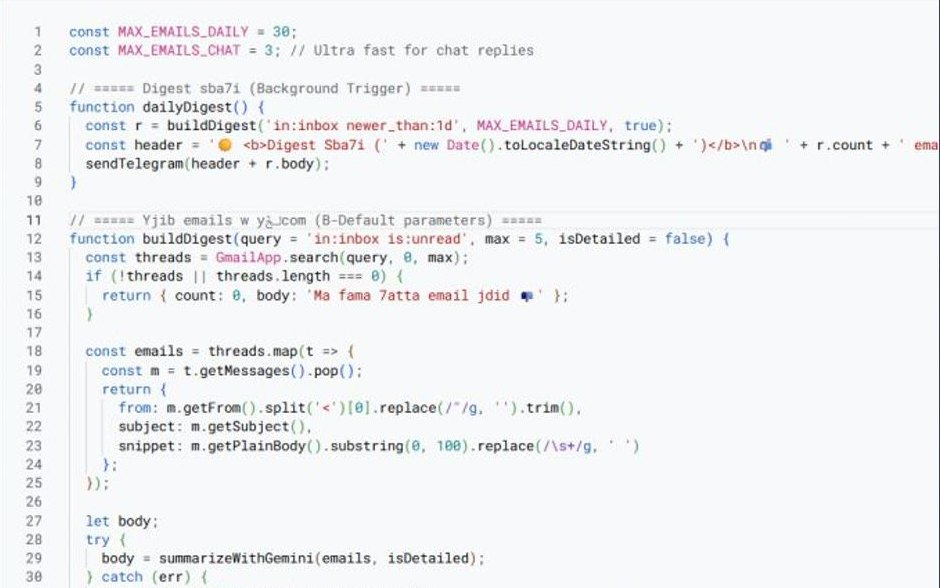
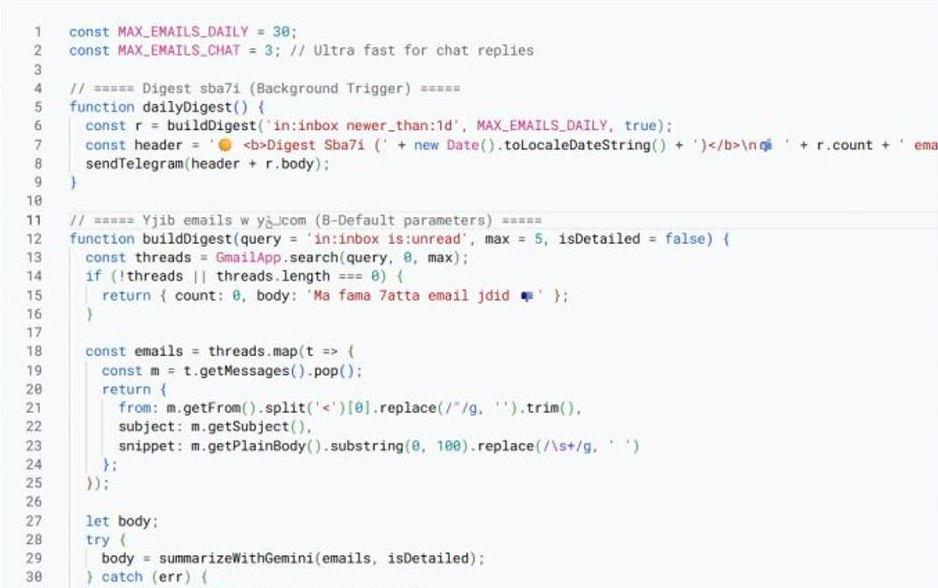
Work section: one block per project, pictures never covered

diff --git a/index.html b/index.html
@@ -149,7 +149,7 @@
         <a class="btn" href="#quote" data-quote="ai"><span lang="en">Get my price</span><span lang="fr">Voir mon prix</span> <span class="arr" aria-hidden="true">→</span></a>
       </div>
     </div>
-    <figure class="pic"><img src="img/gmail-ai-assistant.jpg" alt="Gmail AI Assistant, Apps Script code" data-fr-alt="Gmail AI Assistant, code Apps Script" width="940" height="588" loading="lazy" style="object-position:0 0"><figcaption><span lang="en">My Gmail assistant: the Apps Script code</span><span lang="fr">Mon assistant Gmail&nbsp;: le code Apps Script</span></figcaption></figure>
+    <figure class="pic"><img src="img/gmail-ai-assistant.jpg" alt="Gmail AI Assistant, Apps Script code" data-fr-alt="Gmail AI Assistant, code Apps Script" width="938" height="588" loading="lazy"><figcaption><span lang="en">My Gmail assistant: the Apps Script code</span><span lang="fr">Mon assistant Gmail&nbsp;: le code Apps Script</span></figcaption></figure>
   </article>
 
   <article class="sheet s3">
@@ -174,22 +174,22 @@
 <section class="work" id="work" aria-labelledby="work-h">
   <h2 class="sr" id="work-h"><span lang="en">Projects</span><span lang="fr">Projets</span></h2>
   <div class="plate">
-    <picture><source media="(max-width:820px), (max-width:1100px) and (orientation:portrait)" srcset="img/hero-app-m.jpg" width="434" height="500"><img class="full" src="img/hero-app.jpg" alt="Nizam app screens: timetable and training" data-fr-alt="Écrans de l’app Nizam : emploi du temps et entraînement" width="960" height="600" loading="lazy" style="object-position:50% 20%"></picture>
+    <picture><source media="(max-width:560px)" srcset="img/hero-app-m.jpg" width="434" height="500"><img class="full" src="img/hero-app.jpg" alt="Nizam app screens: timetable and training" data-fr-alt="Écrans de l’app Nizam : emploi du temps et entraînement" width="960" height="600" loading="lazy"></picture>
     <div class="row"><small><span lang="en">Mobile app</span><span lang="fr">App mobile</span></small><h2><a href="https://github.com/OussEmabouchahwa/life-app" target="_blank" rel="noopener">Nizam</a></h2><span class="fact">Flutter · Riverpod · <span lang="en">works offline</span><span lang="fr">hors ligne</span></span></div>
     <div class="say"><p><span lang="en">One daily planner for a student's real life: classes, prayer times computed on the phone, study goals, grades, training and food. 34 tests passing.</span><span lang="fr">Un seul planning pour la vraie vie d'un étudiant&nbsp;: cours, horaires de prière calculés sur le téléphone, objectifs de révision, notes, sport et repas. 34 tests réussis.</span></p></div>
   </div>
   <div class="plate">
-    <picture><source media="(max-width:820px), (max-width:1100px) and (orientation:portrait)" srcset="img/gmail-ai-assistant-m.jpg" width="520" height="600"><img class="full" src="img/gmail-ai-assistant.jpg" alt="Gmail AI Assistant, Apps Script code" data-fr-alt="Gmail AI Assistant, code Apps Script" width="940" height="588" loading="lazy" style="object-position:0 30%"></picture>
+    <picture><source media="(max-width:560px)" srcset="img/gmail-ai-assistant-m.jpg" width="520" height="600"><img class="full" src="img/gmail-ai-assistant.jpg" alt="Gmail AI Assistant, Apps Script code" data-fr-alt="Gmail AI Assistant, code Apps Script" width="938" height="588" loading="lazy"></picture>
     <div class="row"><small><span lang="en">AI agent</span><span lang="fr">Agent IA</span></small><h2><a href="https://github.com/OussEmabouchahwa/Gmail-AI-Assistant" target="_blank" rel="noopener">Gmail AI Assistant</a></h2><span class="fact">Apps Script · Gemini · Telegram</span></div>
     <div class="say"><p><span lang="en">Reads Gmail, keeps only what matters with Gemini and sends a morning digest on Telegram, in Tunisian Derja. Emails are treated as untrusted, so a message cannot hijack the agent. No server to pay for.</span><span lang="fr">Lit Gmail, garde l'important grâce à Gemini et envoie un résumé chaque matin sur Telegram, en derja tunisienne. Les e-mails sont traités comme non fiables&nbsp;: un message ne peut pas détourner l'agent. Aucun serveur à payer.</span></p></div>
   </div>
   <div class="plate">
-    <picture><source media="(max-width:820px), (max-width:1100px) and (orientation:portrait)" srcset="img/site-01-m.jpg" width="860" height="880"><img class="full shot" src="img/site-01.jpg" alt="Marlow &amp; Reed store headline" data-fr-alt="Titre de la boutique Marlow &amp; Reed" width="1440" height="900" loading="lazy"></picture>
+    <picture><source media="(max-width:560px)" srcset="img/site-01-m.jpg" width="860" height="880"><img class="full shot" src="img/site-01.jpg" alt="Marlow &amp; Reed store headline" data-fr-alt="Titre de la boutique Marlow &amp; Reed" width="1440" height="900" loading="lazy"></picture>
     <div class="row"><small>E-commerce</small><h2><a href="https://e-comerce-ten-rust.vercel.app" target="_blank" rel="noopener">Marlow &amp; Reed</a></h2><span class="fact"><span lang="en">footwear store</span><span lang="fr">boutique de chaussures</span></span></div>
     <div class="say"><p><span lang="en">A footwear store with collections, product pages and a clear path to checkout. Live online, open it and try it.</span><span lang="fr">Une boutique de chaussures avec collections, fiches produit et un parcours clair jusqu'au paiement. En ligne&nbsp;: ouvrez-la et testez-la.</span></p></div>
   </div>
   <div class="plate">
-    <picture><source media="(max-width:820px), (max-width:1100px) and (orientation:portrait)" srcset="img/weather-bot-m.jpg" width="388" height="447"><img class="full" src="img/weather-bot.jpg" alt="Weather bot: Worker code and its Telegram answers" data-fr-alt="Bot météo : code du Worker et réponses sur Telegram" width="855" height="534" loading="lazy" style="object-position:0 50%"></picture>
+    <picture><source media="(max-width:560px)" srcset="img/weather-bot-m.jpg" width="388" height="447"><img class="full" src="img/weather-bot.jpg" alt="Weather bot: Worker code and its Telegram answers" data-fr-alt="Bot météo : code du Worker et réponses sur Telegram" width="855" height="529" loading="lazy"></picture>
     <div class="row"><small><span lang="en">Automation</span><span lang="fr">Automatisation</span></small><h2><a href="https://github.com/OussEmabouchahwa/weather_bot.py" target="_blank" rel="noopener"><span lang="en">Weather bot</span><span lang="fr">Bot météo</span></a></h2><span class="fact">n8n · Cloudflare Workers · Telegram</span></div>
     <div class="say"><p><span lang="en">Fetches the forecast and posts it to Telegram on a schedule, with nobody pressing a button. Built in two weeks.</span><span lang="fr">Récupère les prévisions et les publie sur Telegram à heure fixe, sans que personne n'appuie sur un bouton. Construit en deux semaines.</span></p></div>
   </div>

diff --git a/css/styles.css b/css/styles.css
@@ -153,23 +153,29 @@ button.tl-link{background:none;border:0;padding:0;cursor:pointer}
 .s1 .pic img{position:static;width:100%;height:100%;object-fit:cover}
 .s1 .pic img:nth-child(3){display:none}
 
-/* ---------- work: full plates, one midline row ---------- */
-.plate{position:relative;height:100svh;min-height:680px;overflow:hidden;background:var(--night);color:var(--night-ink)}
-.plate img.full{position:absolute;inset:0;width:100%;height:100%;object-fit:cover;transform:scale(1.25);transition:transform 2.4s var(--ease)}
-.plate.is-in img.full{transform:scale(1.08)}
 /* a screenshot with large lettering is shown whole, on its own paper background, never cropped */
 .sheet .pic img.shot{object-fit:contain;background:var(--paper);padding-bottom:44px}
-.plate img.full.shot{object-fit:contain;background:var(--paper)}
-.plate .row{position:absolute;left:0;right:0;top:50%;transform:translateY(-50%);height:90px;display:grid;grid-template-columns:12% 1fr auto;align-items:center;padding:0 var(--m);background:var(--night);color:var(--night-ink);z-index:3;gap:16px}
-.plate .row small{font-size:var(--step-small)}
-.plate .row h2{font-size:clamp(1.375rem,2vw,1.875rem);letter-spacing:-.03em;line-height:1.1}
+/* the code picture keeps a strip under it for its caption, and is shown whole beside the text */
+.s2 .pic img{object-fit:contain;object-position:50% 100%;padding-bottom:44px}
+
+/* ---------- work: one block per project, the picture whole and nothing on top of it ---------- */
+.plate{display:grid;grid-template-columns:repeat(12,1fr);grid-template-rows:1fr auto auto 1fr;gap:0 var(--gap);padding:clamp(64px,7vw,110px) var(--m);background:var(--night);color:var(--night-ink)}
+.plate:nth-of-type(even){background:var(--bg);color:var(--ink)}
+.plate img.full{grid-column:1 / 8;grid-row:1 / 5;align-self:center;width:100%;height:auto}
+.plate img.full.shot{background:var(--paper)}
+.plate .row,.plate .say{grid-column:9 / 13}
+.plate:nth-of-type(even) img.full{grid-column:6 / 13}
+.plate:nth-of-type(even) .row,.plate:nth-of-type(even) .say{grid-column:1 / 5}
+.plate .row{grid-row:2;display:flex;flex-direction:column;align-items:flex-start;gap:6px}
+.plate .row h2{order:-1;font-size:clamp(1.75rem,2.6vw,2.5rem);letter-spacing:-.035em;line-height:1.05}
 .plate .row h2 a{display:inline-flex;align-items:center;min-height:44px;text-decoration:none}
-.plate :focus-visible{outline-color:var(--bg)}
 .plate .row h2 a:hover{text-decoration:underline;text-underline-offset:.2em}
-.plate .row .fact{font-size:var(--step-small);text-align:right}
-.plate .say{position:absolute;left:var(--m);bottom:var(--m);z-index:3;background:var(--paper);color:var(--paper-ink);padding:22px 24px;max-width:min(520px,44vw)}
+.plate .row small{font-size:var(--step-body);font-weight:600}
+.plate .row .fact{font-size:var(--step-small)}
+.plate :focus-visible{outline-color:var(--bg)}
+.plate:nth-of-type(even) :focus-visible{outline-color:var(--ink)}
+.plate .say{grid-row:3;padding-top:20px}
 .plate .say p{font-size:var(--step-body);line-height:1.45}
-.plate .say a{display:inline-block;margin-top:12px}
 .also{background:var(--paper);padding:clamp(64px,7vw,100px) var(--m);display:grid;grid-template-columns:repeat(12,1fr);gap:var(--gap)}
 .also h2{grid-column:1 / 5;font-size:clamp(1.75rem,2.6vw,2.5rem);letter-spacing:-.035em;line-height:1.05}
 .also ul{grid-column:5 / 13;list-style:none;margin:0;padding:0;display:grid;gap:6px}
@@ -287,6 +293,10 @@ footer .word{position:absolute;left:calc(var(--m) - .05em);bottom:0;font-size:30
   .reel-main aside{grid-column:1 / 13;display:grid;grid-template-columns:1fr 1fr;gap:var(--gap)}
   .steps{grid-template-columns:repeat(2,1fr)}
   .s1 .pic{grid-template-columns:1fr}
+  .plate{display:flex;flex-direction:column;gap:20px}
+  .plate .row{order:-1}
+  .s2 .pic img{object-fit:cover;object-position:0 0}
+  .plate .say{padding-top:0;max-width:60ch}
   .s1 .pic img:nth-child(2){display:none}
   .contact .clocks{grid-column:1 / 7}
   .card{grid-column:7 / 13}
@@ -333,11 +343,7 @@ footer .word{position:absolute;left:calc(var(--m) - .05em);bottom:0;font-size:30
   .sheet .txt{order:3;padding-top:20px;gap:24px}
   .sheet .txt > p{font-size:19px}
   .sheet .txt .btn{width:100%;max-width:560px}
-  .plate{height:auto;min-height:0;display:flex;flex-direction:column}
-  .plate img.full{position:relative;height:52svh}
-  .plate .row{position:static;transform:none;height:auto;grid-template-columns:1fr auto;padding:14px 16px;row-gap:4px}
-  .plate .row h2{grid-column:1 / 3;order:-1}
-  .plate .say{position:static;max-width:none;padding:20px 16px 28px;background:var(--night);color:var(--night-ink)}
+  .plate{padding:48px 16px 56px;gap:16px}
   .also li a{grid-template-columns:96px 1fr;gap:14px}
   .also li img{width:96px;height:72px}
   .also li em{display:none}
@@ -374,5 +380,4 @@ footer .word{position:absolute;left:calc(var(--m) - .05em);bottom:0;font-size:30
   *,*::before,*::after{animation:none!important;transition:none!important;scroll-behavior:auto!important}
   .js [data-reveal]{opacity:1;transform:none}
   .hero .name i{transform:none}
-  .plate img.full{transform:scale(1.08)}
 }
